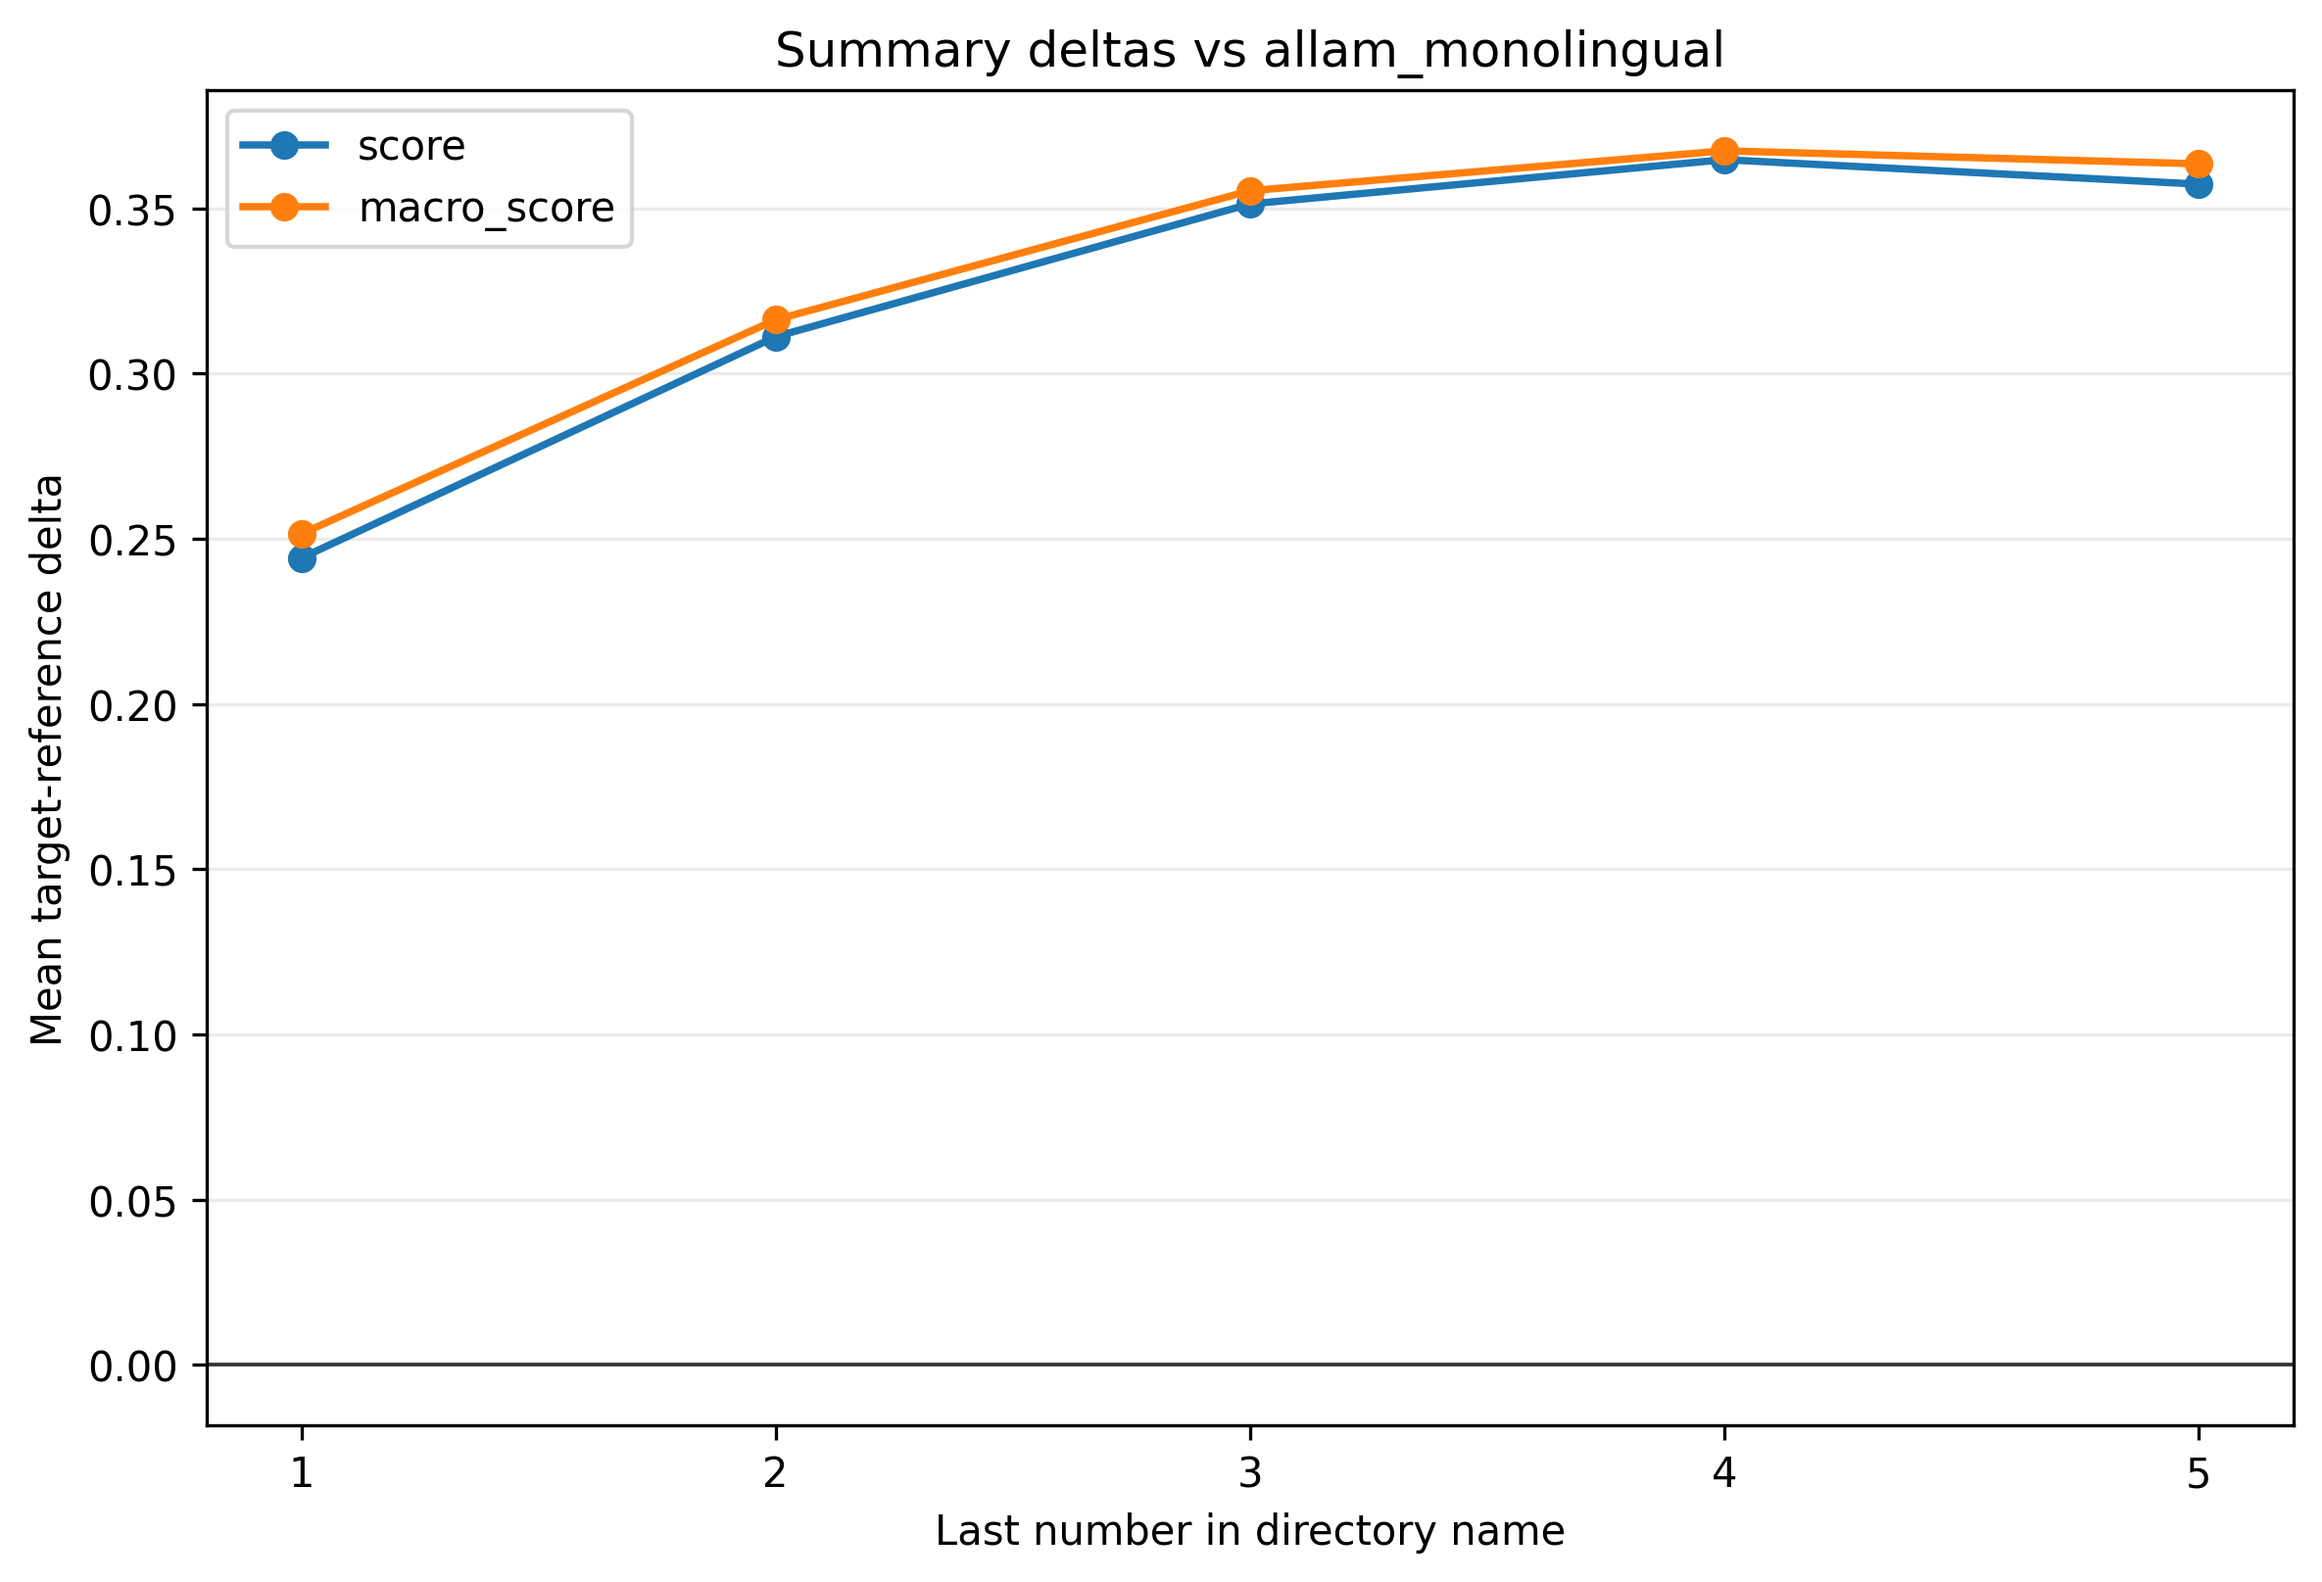
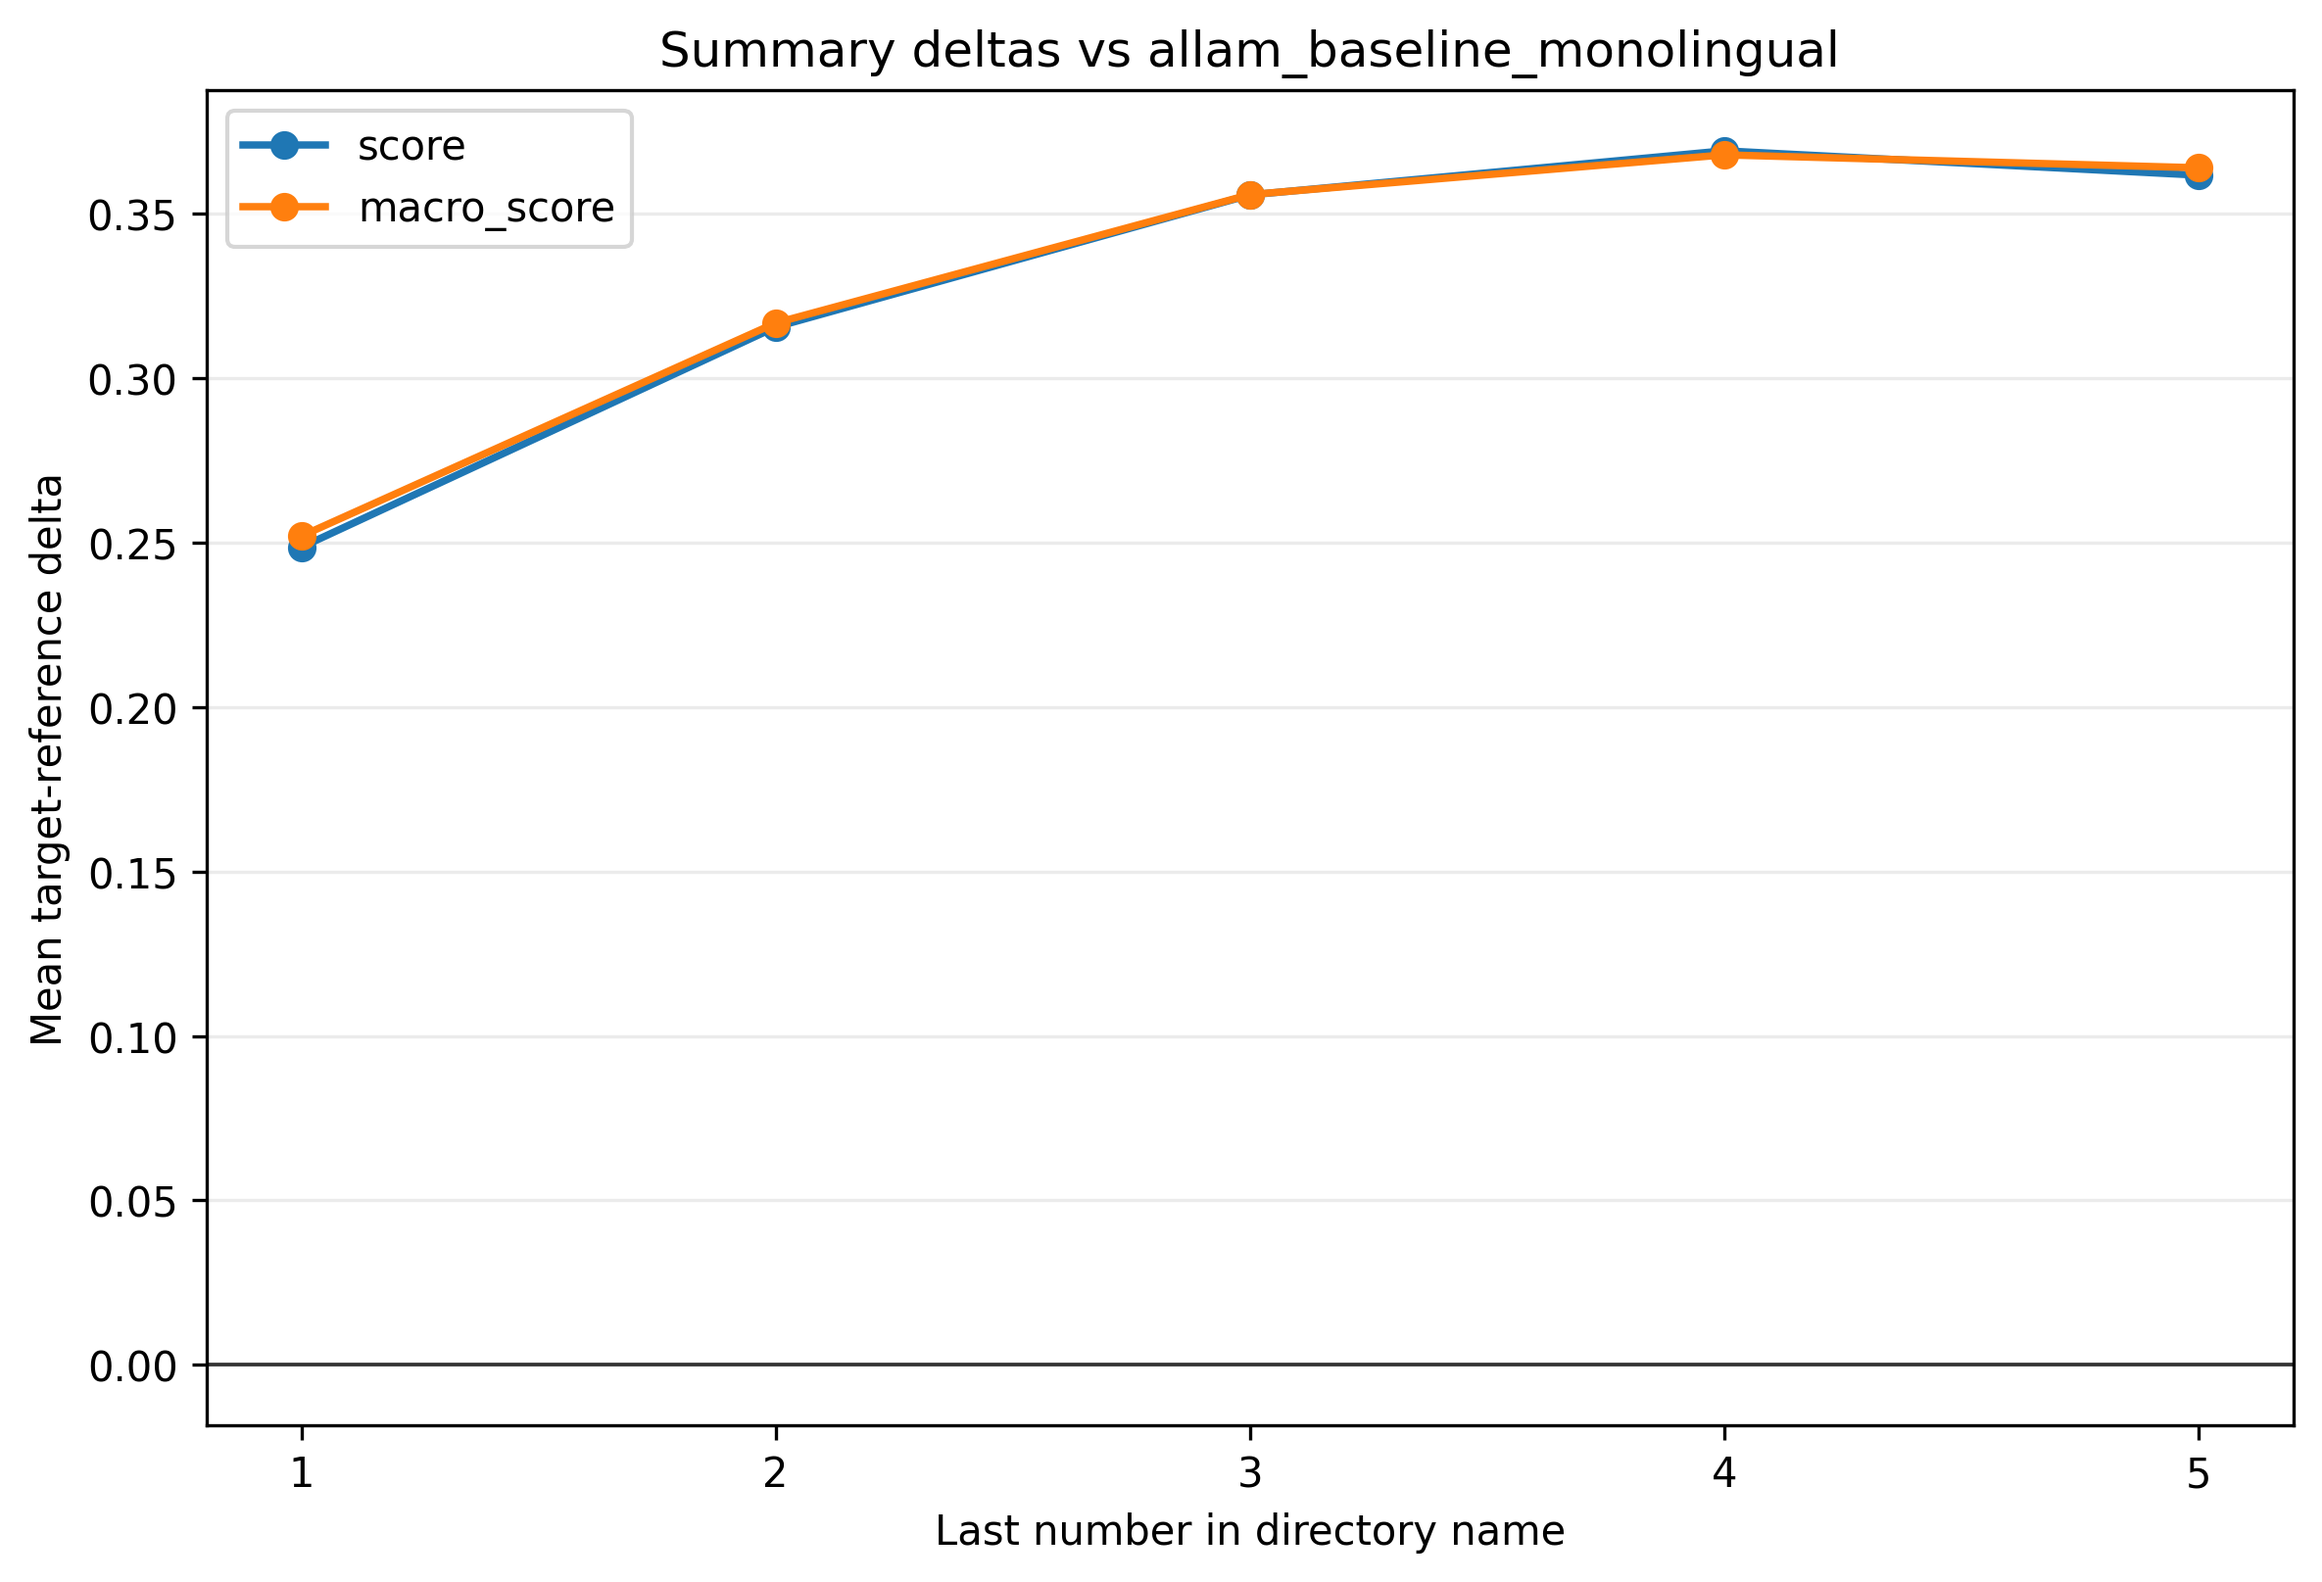
new results

diff --git a/llm_outputs/plot_directory_summary_deltas.py b/llm_outputs/plot_directory_summary_deltas.py
@@ -66,6 +66,15 @@ def parse_float(value: str | None) -> float | None:
         return None
 
 
+def dialect_matches(dialect_code: str, selected: set[str] | None) -> bool:
+    if not selected:
+        return True
+    if dialect_code in selected:
+        return True
+    parts = set(dialect_code.split("-"))
+    return bool(parts & selected)
+
+
 def is_score_column(column: str) -> bool:
     return column == "score" or column.endswith("_score")
 
@@ -91,6 +100,7 @@ def mean_metric_delta(
     target_rows: list[dict[str, str]],
     reference_rows: list[dict[str, str]],
     metric: str,
+    dialects: set[str] | None,
 ) -> tuple[float, int, int]:
     target_index = indexed_rows(target_rows)
     reference_index = indexed_rows(reference_rows)
@@ -98,6 +108,10 @@ def mean_metric_delta(
     skipped = 0
 
     for key, target_row in target_index.items():
+        _, dialect_code, _ = key
+        if not dialect_matches(dialect_code, dialects):
+            continue
+
         reference_row = reference_index.get(key)
         if reference_row is None:
             continue
@@ -110,7 +124,8 @@ def mean_metric_delta(
         deltas.append(target_value - reference_value)
 
     if not deltas:
-        raise ValueError(f"no paired numeric values found for metric '{metric}'")
+        dialect_note = f" for dialect filter {', '.join(sorted(dialects))}" if dialects else ""
+        raise ValueError(f"no paired numeric values found for metric '{metric}'{dialect_note}")
 
     return sum(deltas) / len(deltas), len(deltas), skipped
 
@@ -314,6 +329,15 @@ def main() -> int:
     parser.add_argument("--output", "-o", type=Path, help="Output plot path. Defaults beside the reference directory.")
     parser.add_argument("--metrics", "-m", nargs="+", help="Metric columns to plot. Defaults to common score columns.")
     parser.add_argument(
+        "--dialects",
+        "-d",
+        nargs="+",
+        help=(
+            "Dialect codes to include before averaging. Exact codes match directly; "
+            "single components like egy also match MT codes such as egy-eng and eng-egy."
+        ),
+    )
+    parser.add_argument(
         "--x",
         choices=("auto", "name", "last-number"),
         default="auto",
@@ -343,13 +367,14 @@ def main() -> int:
             field_sets.append(fields)
 
         metrics = score_columns(field_sets, args.metrics)
+        selected_dialects = set(args.dialects) if args.dialects else None
         deltas = {metric: [] for metric in metrics}
         skipped_total = Counter()
         paired_counts = Counter()
 
         for directory, rows in target_data:
             for metric in metrics:
-                delta, paired_count, skipped = mean_metric_delta(rows, reference_rows, metric)
+                delta, paired_count, skipped = mean_metric_delta(rows, reference_rows, metric, selected_dialects)
                 deltas[metric].append(delta)
                 paired_counts[metric] += paired_count
                 skipped_total[metric] += skipped
@@ -367,6 +392,8 @@ def main() -> int:
     print(f"Wrote delta plot to {output_path}")
     print(f"Compared {len(target_dirs)} target director{'y' if len(target_dirs) == 1 else 'ies'} against {reference_dir}")
     print(f"Plotted metrics: {', '.join(metrics)}")
+    if args.dialects:
+        print(f"Filtered dialects: {', '.join(args.dialects)}")
     for metric in metrics:
         if skipped_total[metric]:
             print(f"Skipped {skipped_total[metric]} row(s) with missing/non-numeric {metric} values")
